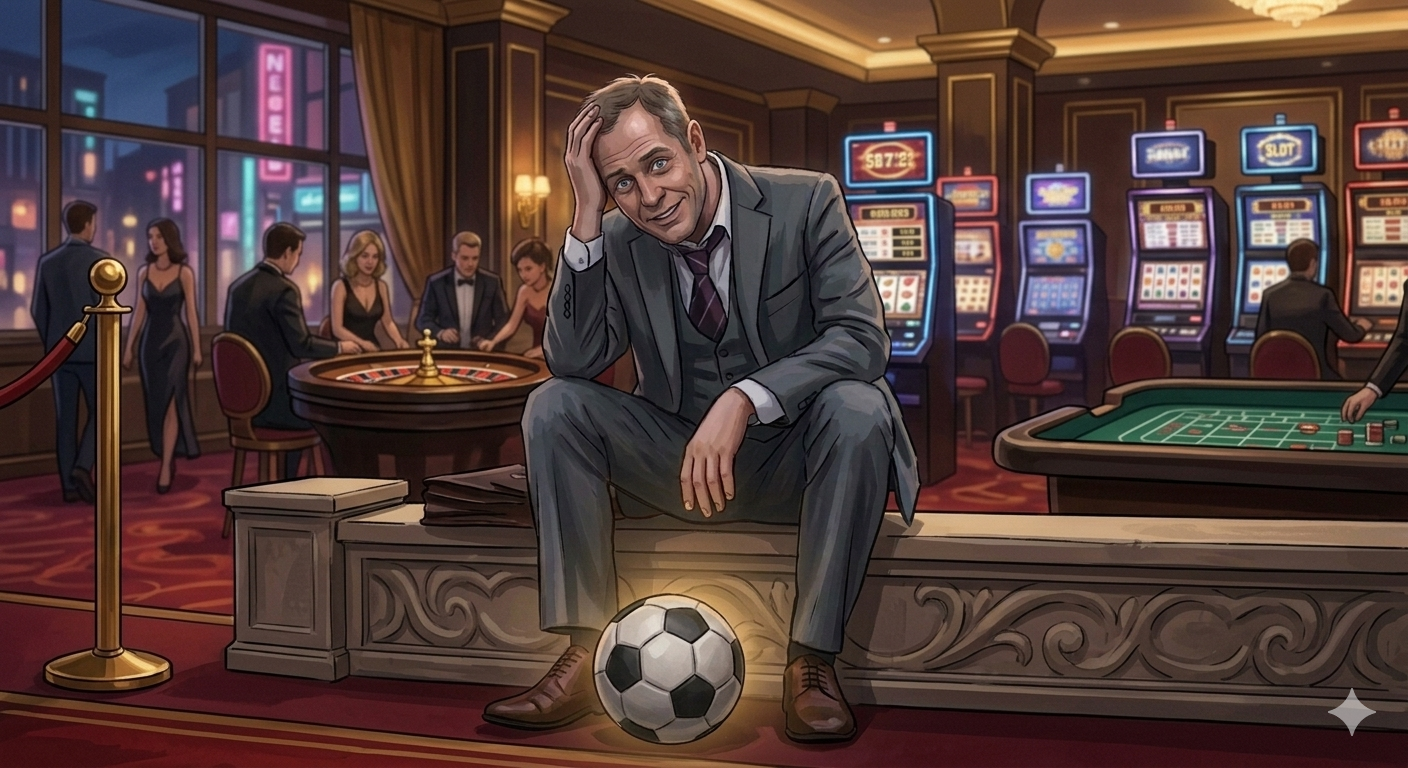
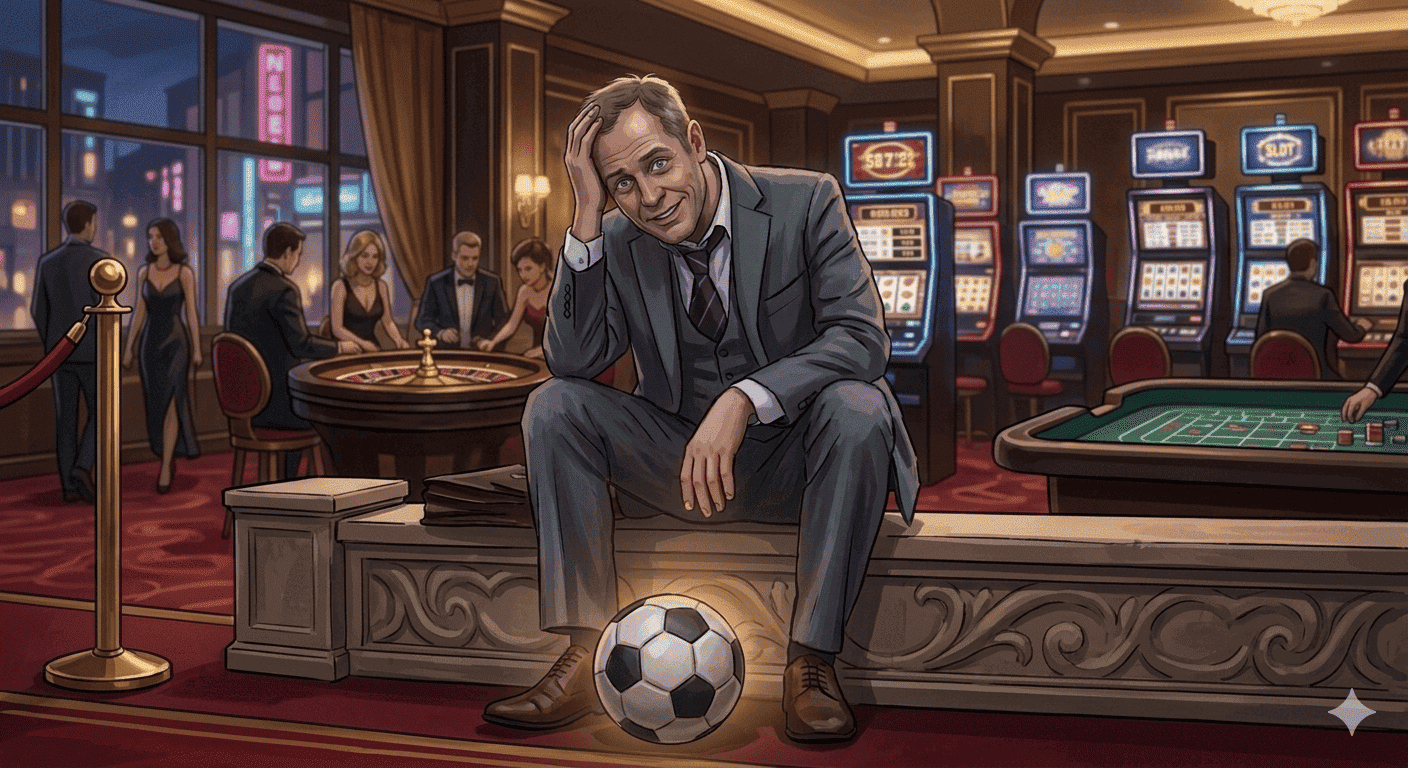
cambio

diff --git a/dinamicas/promocion-fiebre-futbolera/script.js b/dinamicas/promocion-fiebre-futbolera/script.js
@@ -111,7 +111,7 @@ img_jugando.forEach((img) => {
             html: `<div class="_content_msj_alerta_ _otro_intento_">
             <img src="/dinamicas/promocion-fiebre-futbolera/resources/otro_intento.png" alt="Aladdin">
             <br/>
-            <span><b>Sin goles tienes otro intento.</b></span>
+            <span><b>Sin goles, tienes otro intento.</b></span>
           </div>`,
           }).then((res) => {
             if (res.isConfirmed) {